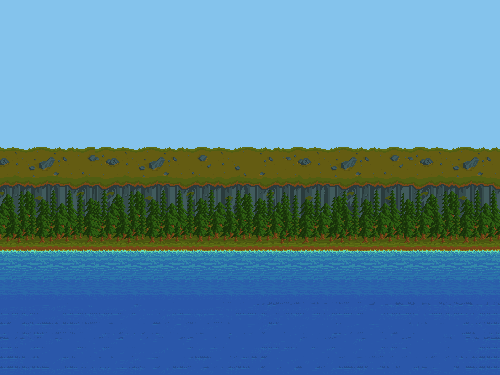
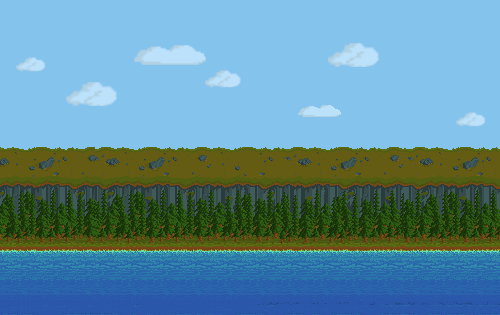
Agrego los background para completar los 4 temas disponibels

diff --git a/client/textures_provider.cpp b/client/textures_provider.cpp
@@ -1,10 +1,15 @@
 #include "textures_provider.h"
+#include <cstdint>
+#include "common/map_dto.h"
 
 std::unordered_map<std::string, std::shared_ptr<SDL2pp::Texture>> TexturesProvider::textures;
 
 void TexturesProvider::load_textures(SDL2pp::Renderer& renderer) {
-    textures["background_0"] =
-            std::make_shared<SDL2pp::Texture>(renderer, DATA_PATH "/backgrounds/background_0.png");
+    for (uint8_t i = 0; i < MAP_THEMES; i++) {
+        textures["background_" + std::to_string(i)] =
+                std::make_shared<SDL2pp::Texture>(renderer, DATA_PATH "/backgrounds/background_" +
+                                                                 std::to_string(i) + ".png");
+    }
     textures["blocks"] =
             std::make_shared<SDL2pp::Texture>(renderer, DATA_PATH "/sprites/blocks/blocks.png");
     textures["duck"] =

diff --git a/client/renderables/map.cpp b/client/renderables/map.cpp
@@ -18,7 +18,7 @@ void RenderableMap::render(SDL2pp::Renderer& renderer, Camera& camera) {
     renderer.Copy(*background_texture, SDL2pp::NullOpt, background_rect);
 
     renderer.SetDrawBlendMode(SDL_BLENDMODE_BLEND);
-    renderer.SetDrawColor(0, 0, 0, 50);
+    renderer.SetDrawColor(0, 0, 0, 100);
     renderer.FillRect(background_rect);
     renderer.SetDrawBlendMode();
 

diff --git a/client/constant_looper.cpp b/client/constant_looper.cpp
@@ -1,8 +1,10 @@
 #include "constant_looper.h"
 
 #include <cmath>
+#include <cstdlib>
 #include <iostream>
 #include <memory>
+#include <random>
 #include <unordered_set>
 
 #include <SDL2/SDL.h>
@@ -51,6 +53,7 @@ void ConstantLooper::run() try {
     process_snapshot();
 
     Camera camera(renderer);
+
     RenderableMap map(map_dto, 0);
 
     bool keep_running = true;
